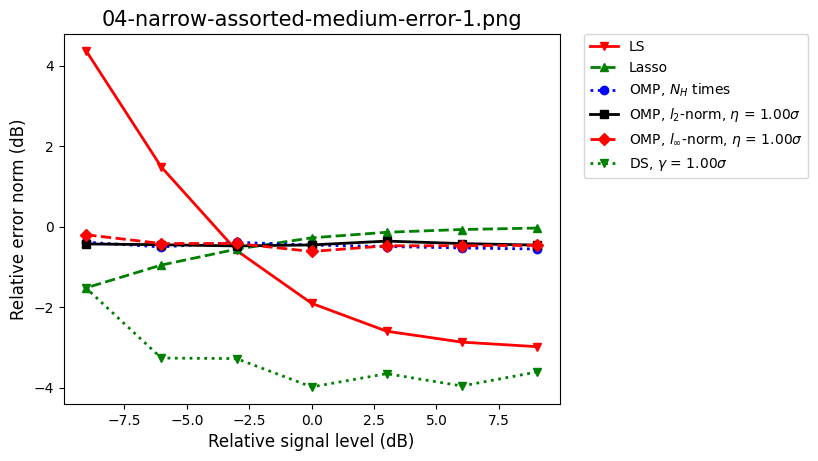
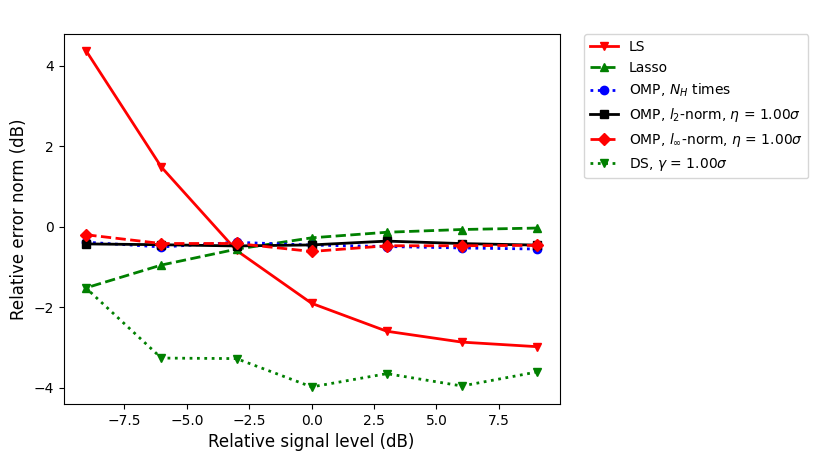
Erase automatic figure titles

Changed region(s): [[0.1222, 0.0, 0.6418, 0.0607]]

diff --git a/treatise/4_simulation.tex b/treatise/4_simulation.tex
@@ -251,50 +251,50 @@ In the following, we plot the reciprocal of noise level vs relative error norm, 
 
 \blank [big]
 \externalfigure [assorted-square-small-error.png] [wfactor=fit, hfactor=fit]
-\FigureCaption {Assorted methods, small, \m {N_H = 12, N_B = 12}, error norm.}
+\FigureCaption {Assorted methods, small, \m {N_B = 12, N_H = 12}, error norm.}
 \blank [big]
 %
 \blank [big]
 \externalfigure [assorted-square-medium-error.png] [wfactor=fit, hfactor=fit]
-\FigureCaption {Assorted methods, medium, \m {N_H = 18, N_B = 18}, error norm.}
+\FigureCaption {Assorted methods, medium, \m {N_B = 18, N_H = 18}, error norm.}
 \blank [big]
 %
 \blank [big]
 \externalfigure [assorted-square-big-error.png] [wfactor=fit, hfactor=fit]
-\FigureCaption {Assorted methods, big, \m {N_H = 24, N_B = 24}, error norm.}
+\FigureCaption {Assorted methods, big, \m {N_B = 24, N_H = 24}, error norm.}
 \blank [big]
 %
 \blank [big]
 \externalfigure [assorted-narrow-small-error.png] [wfactor=fit, hfactor=fit]
-\FigureCaption {Assorted methods, small, \m {N_H = 12, N_B = 10}, error norm.}
+\FigureCaption {Assorted methods, small, \m {N_B = 10, N_H = 12}, error norm.}
 \blank [big]
 %
 \blank [big]
 \externalfigure [assorted-narrow-medium-error.png] [wfactor=fit, hfactor=fit]
-\FigureCaption {Assorted methods, medium, \m {N_H = 18, N_B = 15}, error norm.}
+\FigureCaption {Assorted methods, medium, \m {N_B = 15, N_H = 18}, error norm.}
 \blank [big]
 %
 \blank [big]
 \externalfigure [assorted-narrow-big-error.png] [wfactor=fit, hfactor=fit]
-\FigureCaption {Assorted methods, big, \m {N_H = 24, N_B = 20}, error norm.}
+\FigureCaption {Assorted methods, big, \m {N_B = 20, N_H = 24}, error norm.}
 %
 \blank [big]
 \externalfigure [assorted-wide-small-error.png] [wfactor=fit, hfactor=fit]
-\FigureCaption {Assorted methods, small, \m {N_H = 12, N_B = 8}, error norm.}
+\FigureCaption {Assorted methods, small, \m {N_B = 8, N_H = 12}, error norm.}
 %
 \blank [big]
 \externalfigure [assorted-wide-medium-error.png] [wfactor=fit, hfactor=fit]
-\FigureCaption {Assorted methods, medium, \m {N_H = 18, N_B = 12}, error norm.}
+\FigureCaption {Assorted methods, medium, \m {N_B = 12, N_H = 18}, error norm.}
 %
 \blank [big]
 \externalfigure [assorted-wide-big-error.png] [wfactor=fit, hfactor=fit]
-\FigureCaption {Assorted methods, big, \m {N_H = 24, N_B = 16}, error norm.}
+\FigureCaption {Assorted methods, big, \m {N_B = 16, N_H = 24}, error norm.}
 
 As for the plot of time taken in minutes, we give only one example of \m {N_H = 16}.
 %
 \blank [big]
-\externalfigure [assorted-medium-time.png] [wfactor=fit, hfactor=fit]
-\FigureCaption {Assorted methods, \m {N_H = 3 N_B, N_H = 16}, time.}
+\externalfigure [assorted-narrow-medium-time.png] [wfactor=fit, hfactor=fit]
+\FigureCaption {Assorted methods, \m {N_B = 15, N_H = 18}, time.}
 \blank [big]
 
 
@@ -336,24 +336,24 @@ Again, we plot the reciprocal of noise level vs relative error norm, for \m {N_H
 %
 \blank [big]
 \externalfigure [oommpp-square-small-error.png] [wfactor=fit, hfactor=fit]
-\FigureCaption {OMP, \m {N_H = N_B = 12}, error.}
+\FigureCaption {OMP, \m {N_H = 12, N_B = 12}, error.}
 \blank [big]
 %
 \blank [big]
 \externalfigure [oommpp-square-medium-error.png] [wfactor=fit, hfactor=fit]
-\FigureCaption {OMP, \m {N_H = N_B = 18}, error.}
+\FigureCaption {OMP, \m {N_H = 18, N_B = 18}, error.}
 \blank [big]
 %
 \blank [big]
 \externalfigure [oommpp-square-big-error.png] [wfactor=fit, hfactor=fit]
-\FigureCaption {OMP, \m {N_H = N_B = 24}, error.}
+\FigureCaption {OMP, \m {N_H = 24, N_B = 24}, error.}
 \blank [big]
 %
 As for the plot of time taken in minutes, we give only one example of \m {N_H = 18}.
 %
 \blank [big]
 \externalfigure [oommpp-square-medium-time.png] [wfactor=fit, hfactor=fit]
-\FigureCaption {OMP, \m {N_H = N_B = 18}, time.}
+\FigureCaption {OMP, \m {N_H = 18, N_B = 18}, time.}
 \blank [big]
 
 \stopsubsection
@@ -362,36 +362,29 @@ As for the plot of time taken in minutes, we give only one example of \m {N_H = 
 
 In the assorted plots, DS steadily outperforms other methods.
 From lowest to highest error, it usually goes like this: DS, LS, Lasso, OMP.
-Though the result is encouraging for our purpose, we wonder why OMP is so bad.
-Did we make mistakes?
-We do not think so.
-A crucial reason might be that in Lee, Gil, and Lee \cite [LGL16], the angles of departure and arrival is distributed within a cluster of standard deviation 15 degrees, and in ours, they are uniform on the unit circle.
-One is then tempted to say, we suggested a low complexity beamformer and high complexity estimation method, while they suggested a high complexity beamformer and low complexity estimation method, and the low complexity solution does not seem effective in our settings.
-It remains to see, however, how OMP and DS compare, if done exactly under their settings.
 
-However, it is not clear how higher \m {\s} (dimensionless noise level) corresponds to lower \m {\T {\chi}} (simulated error).
+We wonder why OMP is so bad.
+A crucial reason might be that in Lee, Gil, and Lee \cite [LGL16], they proposed a high-complexity convex program for the beamformers, which they gave approximation, and we have here a low-complexity, randomly-generated beamformers.
+It may also have something to do with the distribution of angles of departure and arrival;
+their distribution lies within a cluster of standard deviation 15 degrees, and in ours, they are uniform on the unit circle.
+It remains to see how OMP and DS compare, if done exactly under their settings.
+
+The trend between \m {\s} (dimensionless noise level) and \m {\T {\chi}} (simulated error) is not clear, especially for OMP and lasso.
 It seems when \m {\s} is further increased (leftmost of the plots), the error might also increase rapidly, but more parameters have to be simulated for a conclusion.
 
-Varying thresholds of DS (namely \m {\g_{\Rm {DS}}}) and OMP (namely \m {\h_{\Rm {OMP}}}) appears not to affect the estimation significantly.
-Nevertheless, it seems \m {\g_{\Rm {DS}}} is usually best chosen in the order of magnitude of \m {\s}, which is reasonable.
-Sometimes the iteration stabilizes much earlier than is constrained by maximum iteration number.
+Varying thresholds of DS (namely \m {\g_{\Rm {DS}}}) and OMP (namely \m {\h_{\Rm {OMP}}}) appears not to affect much.
+It may have been that the iteration stabilizes much earlier than is constrained by maximum iteration number.
+While we choose \m {\g_{\Rm {DS}}} to be in the order of magnitude of \m {\s}, it seems, as signal level is low, a greater value may be better.
 
-Sadly, we remark that CVXPY sometimes gives overflowing outputs, some of them as large as \m {10^{11}}.
+Unfortunately, we report that CVXPY sometimes gives overflowing outputs, some of them as large as \m {10^{11}}.
 This indicates perhaps some typical-looking output may in fact be unreliable.
 We thus discard outputs larger than a given threshold, say \m {10^4}, and simply return the answer to be a Moore–Penrose inverse.
-It is unknown whether there are better methods.
-
-We are not sure either, unfortunately, why \m {\T {\chi}} does not agree \m {\chi}, and why \m {\chi} does not appear to increase significantly as \m {\s} increases.
-As shown above, \m {\chi} is almost constant around \m {1}, thus \m {\T {\chi}} is an overestimation when \m {\s} is high and underestimation when \m {\s} is low.
-A possible explanation is that the non-sparsity of \m {\V {g}} undermines the analysis in chapter 3, despite our attempts to account for that effect.
-These matters remain to be investigated in the future.
-
-We include Figure 12 for completeness's sake, where extreme low signal level is considered.
-Starting with \m {-30} dB, error of all methods grow significantly.
-However, the data may not be entirely reliable, since as we said we automatically discard overflowing values when the program blows up.
 All in all, the trend remains to be reproduced perhaps by simulating on a better device.
 
-We end this section by showing two cases where DS works or fails, in figures 23 and 24.
+We are not sure either why \m {\T {\chi}} is an overestimation of \m {\chi} by several orders of magnitude.
+A possible explanation is that the non-sparsity of \m {\V {g}} undermines the analysis in chapter 3, despite our attempts to account for that effect, which remain to be investigated in the future.
+
+We end this section by showing two cases where DS works or fails, in figures 21 and 22.
 In both figures the true values of \m {\M {H}} entries are ordered by magnitude, and corresponding estimated values in the first and second stage are plotted against them.
 When DS fails, the soft thresholding did not rule out smaller entries, thus a second application of DS on the wrong index set failed too.
 When DS succeeded, the soft thresholding gave a reasonable guess of the nonzero components, thus a second application of DS on this index set refined the estimated values.

diff --git a/treatise/5_conclusion.tex b/treatise/5_conclusion.tex
@@ -2,18 +2,18 @@
 \startchapter [title={Conclusion}]
 
 The treatise addresses the problem of effective estimation of the millimeter wave channel by exploiting its sparsity.
-Towards that end, we try the Dantzig Selector (DS) rather than Orthogonal Matching Pursuit (OMP), which is a more common choice, as the estimation algorithm.
-We proceed by exploiting the sparsity of spatial frequency domain, rather than 
-the spatial domain itself, and suggested the generalization of DS for complex vectors work in present case.
-Moreover, assuming the virtual channel model according to uniform linear array response, we managed to prove explicitly, following the spirit of Candès and Tao \cite [CaT07], that for overwhelming probability, the expected square error is bounded.
+To do so, we try the Dantzig Selector (DS) for channel estimation, rather than the more commonly used Orthogonal Matching Pursuit (OMP).
+We exploited the sparsity of spatial frequency domain, and generalized DS for complex vectors.
+We then proved explicitly that the expected error is bounded for overwhelming probability.
 
-We also point out that DS may be cast into an LP, and simulation is done.
-DS is steadily more accurate than all other methods, while exhibiting rather high complexity.
-Unfortunately, and it remains to investigate why there is no obvious trend between the signal level and the relative error norm, and why CVXPY sometimes gives overflowing answers.
+We also pointed out that DS may be cast into an linear program, for which simulation is done.
+DS is steadily more accurate than all other methods, while costing higher complexity.
+Moreover, we are not sure about the best value of the threshold, and it remains to prevent CVXPY from giving overflowing answers.
+Meanwhile, OMP and Lasso often fails, and we wonder whether they are really so bad, or we have not used correct parameters.
 
 One must be careful in giving meaningful comparison of existent analytic bounds for compressive sensing algorithms, as they might work in different settings.
-Indeed, DS requires a RIP matrix and performance is guaranteed in noisy observation \cite [CaT07], while RIP is not easily to justify rigorously, and its easy construction is even an open problem.
-OMP, on the other hand, may require only an entrywise i.i.d.\ sensing matrix \cite [TrG07a], but much of its property remains open.
+Indeed, DS requires a RIP linear transformation, and it is said to work in noisy linear systems \cite [CaT07]; here, RIP is not at all easy to justify rigorously, and a more feasible construction is even an ongoing research problem.
+OMP, on the other hand, require only an entrywise i.i.d.\ sensing matrix \cite [TrG07a], but much of its property is yet to be studied.
 On the whole, DS trades off low time and space complexity high precision, and for OMP the opposite is true.
 
 \stopchapter

diff --git a/presentation/3_simulation.tex b/presentation/3_simulation.tex
@@ -31,40 +31,46 @@
 \I Also define \m {\chi} by plugging in \m {\V {d}} into \m {\T {\chi}}.
 }
 % XXX % % XXX % % XXX % % XXX % % XXX % % XXX %
-\Frame {\m {1/\s} vs \m {\T {\chi}}, assorted, \m {N_H=16=2N_B}}
+\Frame {\m {1/\s} vs \m {\T {\chi}}, assorted, \m {N_H=12,N_B=12}}
 {
 \blank [big]
-\externalfigure [assorted-narrow-medium-error.png] [width=11cm]
+\externalfigure [assorted-square-small-error.png] [width=11cm]
 }
 % XXX % % XXX % % XXX % % XXX % % XXX % % XXX %
-\Frame {\m {1/\s} vs \m {\T {\chi}}, assorted, \m {N_H=24=2N_B}}
+\Frame {\m {1/\s} vs \m {\T {\chi}}, assorted, \m {N_H=24,N_B=24}}
 {
 \blank [big]
-\externalfigure [assorted-narrow-very-big-error.png] [width=11cm]
+\externalfigure [assorted-square-big-error.png] [width=11cm]
 }
 % XXX % % XXX % % XXX % % XXX % % XXX % % XXX %
-\Frame {\m {1/\s} vs \m {\T {\chi}}, assorted, \m {N_H=16=3N_B}}
+\Frame {\m {1/\s} vs \m {\T {\chi}}, assorted, \m {N_H=12,N_B=10}}
 {
 \blank [big]
-\externalfigure [assorted-wide-medium-error.png] [width=11cm]
+\externalfigure [assorted-narrow-small-error.png] [width=11cm]
 }
 % XXX % % XXX % % XXX % % XXX % % XXX % % XXX %
-\Frame {\m {1/\s} vs \m {\T {\chi}}, assorted, \m {N_H=24=3N_B}}
+\Frame {\m {1/\s} vs \m {\T {\chi}}, assorted, \m {N_H=24,N_B=20}}
 {
 \blank [big]
-\externalfigure [assorted-wide-very-big-error.png] [width=11cm]
+\externalfigure [assorted-narrow-big-error.png] [width=11cm]
 }
 % XXX % % XXX % % XXX % % XXX % % XXX % % XXX %
-\Frame {\It {ibid.}, low signal, \m {N_H=16=3N_B}}
+\Frame {\m {1/\s} vs \m {\T {\chi}}, assorted, \m {N_H=12,N_B=8}}
 {
 \blank [big]
-\externalfigure [assorted-medium-low-signal-error.png] [width=11cm]
+\externalfigure [assorted-wide-small-error.png] [width=11cm]
 }
 % XXX % % XXX % % XXX % % XXX % % XXX % % XXX %
-\Frame {Time, assorted, \m {N_H=16}}
+\Frame {\m {1/\s} vs \m {\T {\chi}}, assorted, \m {N_H=24,N_B=16}}
 {
 \blank [big]
-\externalfigure [assorted-medium-time.png] [width=11cm]
+\externalfigure [assorted-wide-big-error.png] [width=11cm]
+}
+% XXX % % XXX % % XXX % % XXX % % XXX % % XXX %
+\Frame {\m {1/\s} vs time, assorted, \m {N_H=18,N_B=15}}
+{
+\blank [big]
+\externalfigure [assorted-narrow-medium-time.png] [width=11cm]
 }
 % XXX % % XXX % % XXX % % XXX % % XXX % % XXX %
 \Frame {Discussion}

diff --git a/treatise/1_introduction.tex b/treatise/1_introduction.tex
@@ -255,8 +255,8 @@ In this treatise, we illustrate that DS can outperform OMP and other methods.
 In chapter 2 we shall see that the effective beamformer may serve as the sensing matrix having RIP for high probability.
 The sparsity can be exploited this way, and DS is readily applied.
 In chapter 3, along the lines of Candès and Tao \cite [CaT07], we give a bound (which holds for high probability) on expected error norm, expressed in terms of the suggested sparsity and the number of paths.
-In chapter 4, we remark that DS can be cast as a linear program, for which efficient algorithms are known.
-Numerical results show that in our configuration, where we have uniformly random angles of departure and arrival, DS is superior but at the cost of higher complexity.
+In chapter 4, we remark that DS can be cast as a linear program, for which efficient algorithms exist.
+Numerical results show that in our problem setting, DS is superior but costs higher complexity.
 
 
 \stopsection
